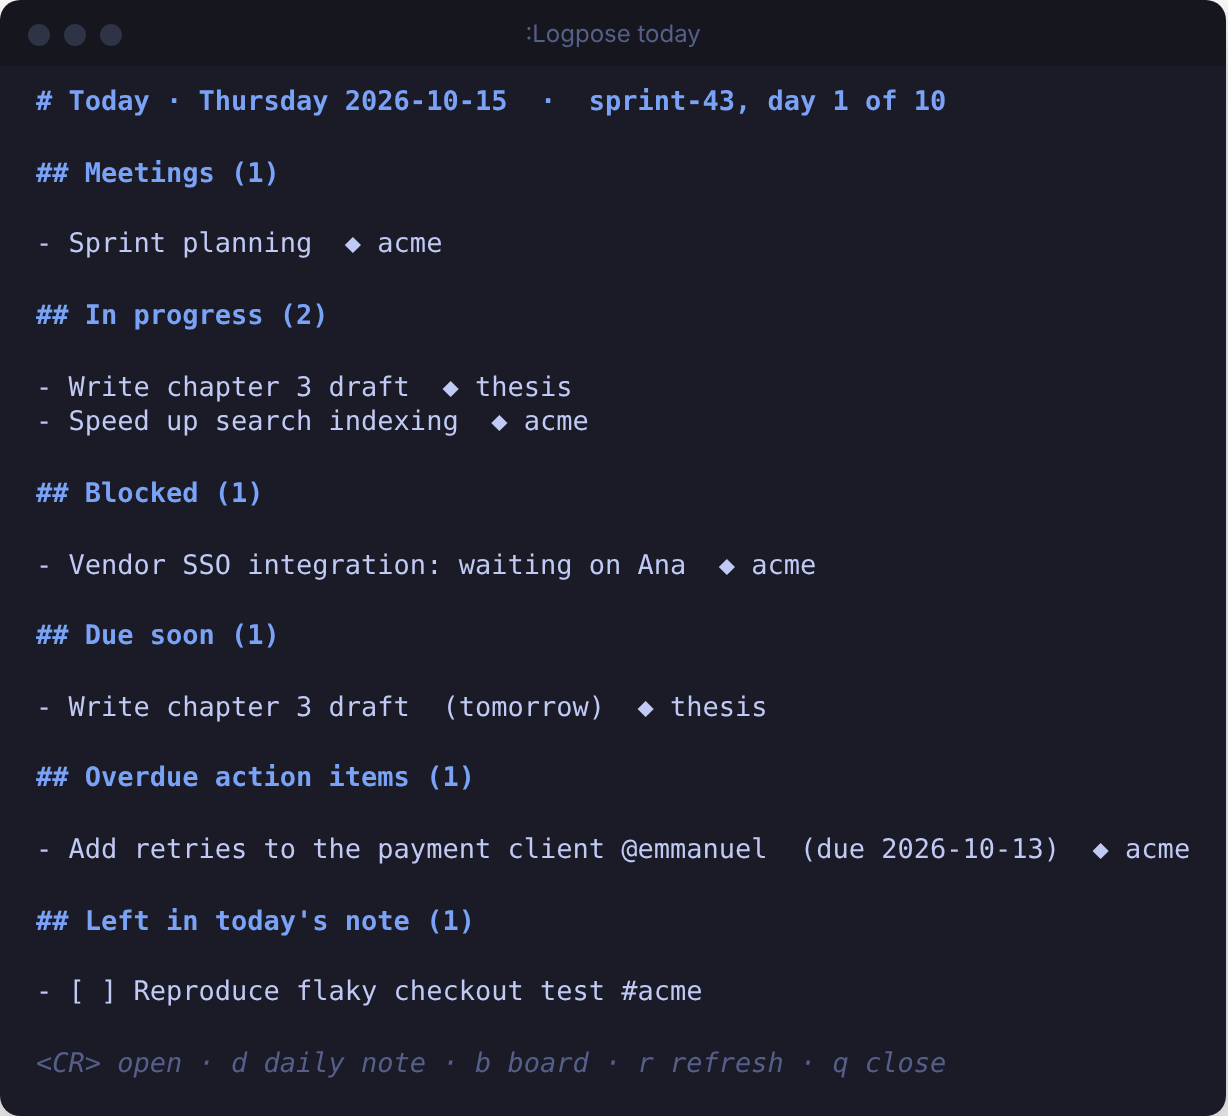
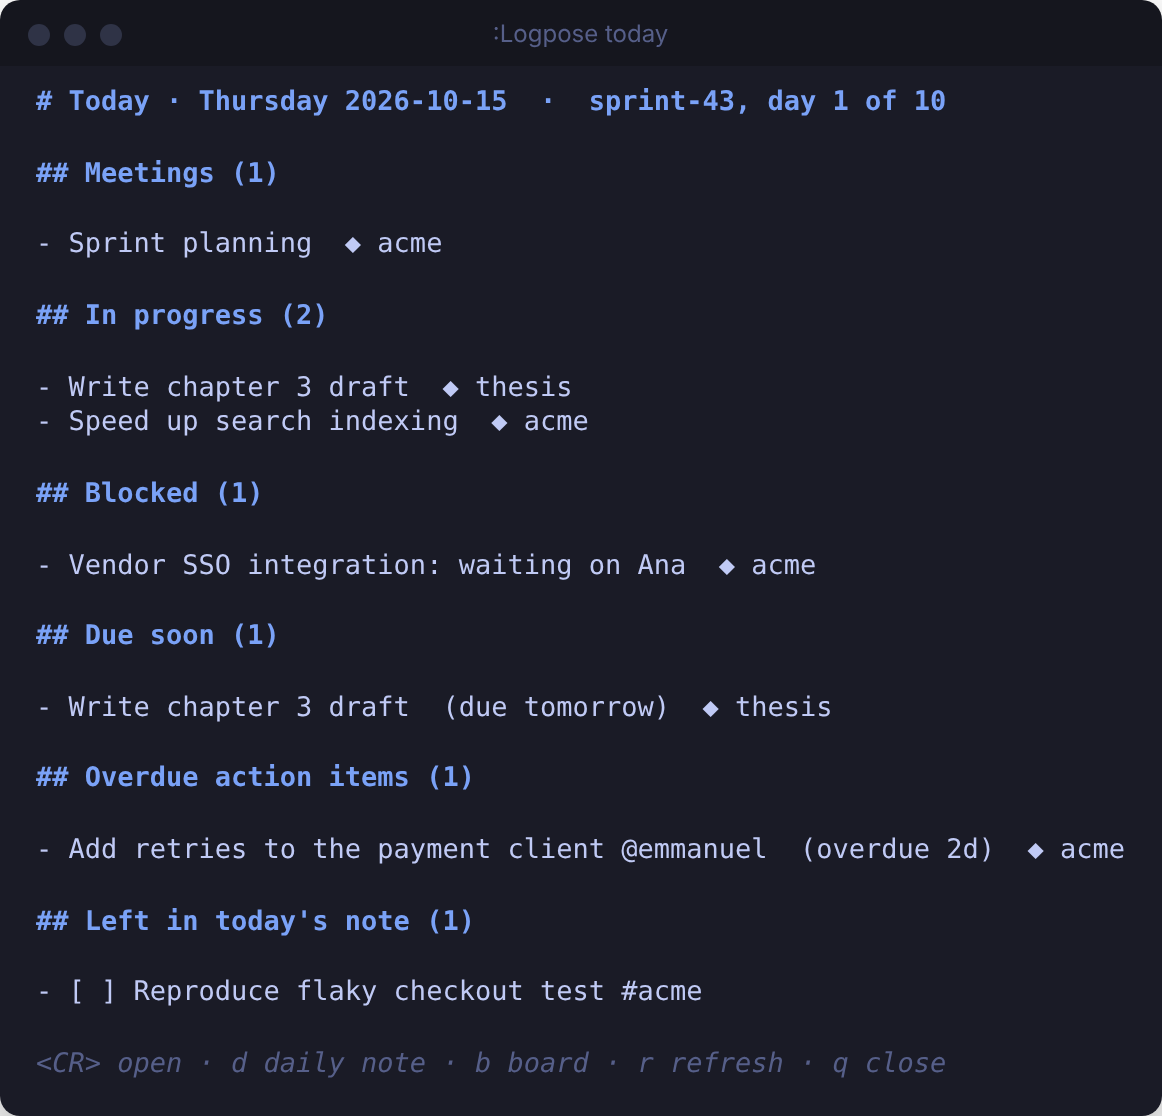
docs: shared date wording; retired commands removed

diff --git a/docs/SPEC.md b/docs/SPEC.md
@@ -64,7 +64,7 @@ capture/done, sprint-aware archives and reports.
 
 **Releases.** Annotated tags in `MAJOR.MINOR.PATCH` form (no `v` prefix). Each completed feature
 bumps the minor version (0.1.0 = F0+F1, 0.2.0 = F1.5, 0.3.0 = F1.6, 0.4.0 = F2, 0.5.0 = F2.1, 0.6.0 = F3, 0.7.0 = F4, 0.8.0 = F5, 0.9.0 = F6, 0.10.0 = O1, 0.11.0 = O2, 0.12.0 = O3, 0.13.0 = O4, 0.14.0 = O5, 0.15.0 = O6, 0.16.0 = F7,
-0.17.0 = F8, 0.18.0 = T1, 0.19.0 = live search and previews, 0.20.0 = B1, 0.21.0 = markdownlint-clean notes, 0.22.0 = timestamps, board look and delete, 0.23.0 = peek, scrolling columns, WIP limits and age, 0.23.1 = board resize fixes, 0.24.0 = command menu, statusline, board undo, 0.25.0 = today, keymaps preset, titled notifications, board extras, 0.25.1 = docs rewrite, 0.26.0 = project manager, project completion and board-follows-project fixes, 0.27.0 = project switcher, project pages as registry, moving tasks between projects, merging projects, 0.28.0 = switching opens the board, 0.28.1 = board and projects split into modules, tests 40× faster, 0.28.2 = caching for big journals, 0.29.0 = frontmatter editor, 0.30.0 = capture picks the project, form rework, bulk edits, 0.30.1 = completion menu closes after a choice, 0.30.2 = <CR> accepts from the menu, nvim-cmp off in the form, 0.31.0 = the edit form stays open after saving, 0.32.0 = card redesign, 0.32.1 = automatic project colours, no cursorline on the board, 0.33.0 = borders tinted with the project's colour, 0.34.0 = column-coloured borders by default again, tags as chips); fixes bump the patch;
+0.17.0 = F8, 0.18.0 = T1, 0.19.0 = live search and previews, 0.20.0 = B1, 0.21.0 = markdownlint-clean notes, 0.22.0 = timestamps, board look and delete, 0.23.0 = peek, scrolling columns, WIP limits and age, 0.23.1 = board resize fixes, 0.24.0 = command menu, statusline, board undo, 0.25.0 = today, keymaps preset, titled notifications, board extras, 0.25.1 = docs rewrite, 0.26.0 = project manager, project completion and board-follows-project fixes, 0.27.0 = project switcher, project pages as registry, moving tasks between projects, merging projects, 0.28.0 = switching opens the board, 0.28.1 = board and projects split into modules, tests 40× faster, 0.28.2 = caching for big journals, 0.29.0 = frontmatter editor, 0.30.0 = capture picks the project, form rework, bulk edits, 0.30.1 = completion menu closes after a choice, 0.30.2 = <CR> accepts from the menu, nvim-cmp off in the form, 0.31.0 = the edit form stays open after saving, 0.32.0 = card redesign, 0.32.1 = automatic project colours, no cursorline on the board, 0.33.0 = borders tinted with the project's colour, 0.34.0 = column-coloured borders by default again, tags as chips, 0.35.0 = shared date wording and frontmatter writer; triage, move and the switcher removed); fixes bump the patch;
 1.0.0 once M3 is done.
 
 ---
@@ -376,11 +376,11 @@ across everything, but meetings, tasks and reports can be kept apart and filtere
   lists the active project, then recently switched-to ones (`recent_projects` in state), then
   the rest by activity; each item previews the project's details (below). "+ New project…"
   creates a page and switches; "Auto-detect" unpins.
-- Switching to a project (switcher, manager `<CR>`, `:Logpose project <name>`) opens its board
+- Switching to a project (manager `<CR>`, `:Logpose project <name>`) shows its board
   unless `projects.open_board = false` or the current buffer is already a board, which follows
   the switch itself (0.28.0). Unpinning doesn't open it.
-- **Project manager** (`:Logpose projects`, `projects/`: `summary`, `manager`, `switcher`;
-  0.26.0, reworked in 0.27.0): one
+- **Project manager** (`:Logpose projects`, `projects/`: `summary`, `manager`; the switcher was
+  removed in 0.35.0; 0.26.0, reworked in 0.27.0): one
   row per project with open tasks (and how many are in the start column), overdue, due soon
   (3 days), blocked, meetings, notes, and the newest change as "3d ago"; most recently active
   first; no change for `review.stale_days` fades the row. `<Tab>` expands a project in place:
@@ -406,6 +406,14 @@ across everything, but meetings, tasks and reports can be kept apart and filtere
   `status`/`project`/`blocked` through `taskfile.set_*` (logged), and moves a meeting to its new
   project's folder (`series`, links via `maintenance.rewrite_links`, the daily `- project:` label,
   the emptied folder). A project page's `project` is refused (rename with `R`).
+- **Consolidation** (0.35.0): one way to word dates (`util/date`: `due` for due dates
+  everywhere they're shown, `relative`, `short`, one `MONTHS` table), one frontmatter writer
+  (`frontmatter.lua`: `quote`, `render`, `line`, `read`, `set` with `false` to remove and an
+  optional key order; used by task files, project pages, meeting and topic notes and the edit
+  form). Retired: `:Logpose triage` (the board, and in INBOX mode the inbox triage queue),
+  `:Logpose move` (the edit form and `m`), the project switcher (`:Logpose project` without a
+  name and `P` open the manager; switching shows the existing board via `board.show`, keeping
+  its filter, marks and folds) and the `<leader>jw` key.
 - **Card design** (0.32.0, `board/cards.lua`): colour only where it means something. Borders use
   `LogposeBoardBorder` (`board.border = "column"` restores column colours); the focused card has
   a heavy border in Normal's foreground plus `LogposeBoardFocusBg` (CursorLine) under its rows,
@@ -439,8 +447,8 @@ across everything, but meetings, tasks and reports can be kept apart and filtere
   edit last` reopen the last capture. With rows per project, `a` uses the row under the cursor
   (`view.lane_at_cursor`, from `b.lane_rows`). `tasks.complete_text` completes `+`, `#`, `due:`
   for the command line and (`complete_input`, customlist) for `vim.ui.input` prompts.
-- **Moving tasks** (0.27.0): `m` on the board (undoable) and `:Logpose move [project|none]` in
-  a task file set `project:` and log `project: old → new`.
+- **Moving tasks** (0.27.0): `m` on the board (undoable) and the edit form's `project` set
+  `project:` and log `project: old → new` (`:Logpose move` was removed in 0.35.0).
 - **Merging** (`M`, `:Logpose merge-project old new`, 0.27.0): the rename plan with `merge`:
   meeting files move into the existing folder one by one (a name clash aborts), the emptied
   folder is removed, links and series follow; if both projects have pages the old page stays

diff --git a/README.md b/README.md
@@ -297,17 +297,15 @@ item to open it. `d` opens the daily note, `b` the board, `r` refreshes and `q` 
 
 ### Switching
 
-`:Logpose project` (or `P` on the board) opens a switcher in your picker. The active project
-comes first, then the ones you switched to recently, and each one previews what's going on in
-it: work in progress, blocked tasks with their reasons, what's due and the last meeting.
-Switching opens that project's board (if you're already on the board, it switches in place),
-and takes effect everywhere else at once. `projects = { open_board = false }` switches without
-leaving where you are.
+`:Logpose project` (or `P` on the board) opens the projects screen below; `<CR>` on a project
+switches to it. Switching brings back your board on that project (as you left it: filter, marks,
+folded columns) and takes effect everywhere else at once. `projects = { open_board = false }`
+switches without leaving where you are.
 
 ```vim
-:Logpose project          " the switcher
+:Logpose project          " the projects screen
 :Logpose project acme     " switch directly
-:Logpose project none     " go back to automatic detection
+:Logpose project none     " go back to automatic detection (c on the projects screen)
 ```
 
 When you haven't pinned a project, logpose works it out from where you are:
@@ -348,7 +346,7 @@ come first, and ones untouched for two weeks fade. `<Tab>` opens a project in pl
 | `c` | Go back to automatic detection. |
 
 **The project page** (`projects/acme.md`) is where a project lives. Its frontmatter is what the
-switcher and the manager show, and you can edit it by hand:
+projects screen shows, and you can edit it by hand (or with `e` there):
 
 ```markdown
 ---
@@ -366,8 +364,8 @@ color: "#e0af68"
 - `color` (a hex colour or a highlight group) colours the project's cards on the board.
 - The rest of the page is yours: overview, links, decisions, open questions.
 
-**Moving a task to another project:** `m` on the board, or `:Logpose move [project]` in a task
-file. The move is logged in the task, and `u` on the board undoes it.
+**Moving a task to another project:** `m` on the board, or change `project` in the edit form
+(`:Logpose edit` in the task file). The move is logged in the task, and `u` on the board undoes it.
 
 **Merging** (`M`, or `:Logpose merge-project old new`) moves everything from one project into
 another: tasks, notes, meetings (files and series) and links. The old project page stays,
@@ -375,7 +373,7 @@ archived and marked `merged_into`, so links to it keep working. Like a rename, i
 change before applying it.
 
 **Archiving** hides a project you're done with, without losing anything. Its tasks and notes
-stay where they are and remain searchable, but it leaves completion, the switcher and the
+stay where they are and remain searchable, but it leaves completion, the projects screen and the
 all-projects board. logpose records this as `archived: true` in the project page, and `U`
 undoes it.
 
@@ -602,8 +600,6 @@ mapping. A `!` can go on either word: `:Logpose archive!` is the same as `:Logpo
 | `capture[!] [TEXT]` | New task in Backlog. `+name` picks the project. `!` opens it. |
 | `done` | In a task file: move it to Done. On checkboxes: check them off. |
 | `promote` | Turn the checkbox under the cursor into a task file. |
-| `move [PROJECT\|none]` | In a task file: move the task to another project. |
-| `triage [FILTERS]` | Open the board on Backlog. |
 | `migrate[!]` | Turn open INBOX.md items into task files. `!` skips the preview. |
 | `actions [open\|mine\|overdue\|all] [FILTERS]` | Meeting action items in the quickfix list. |
 
@@ -622,7 +618,7 @@ mapping. A `!` can go on either word: `:Logpose archive!` is the same as `:Logpo
 | Command | Does |
 |---|---|
 | `note [TITLE]` | Create or open a topic note. |
-| `project [NAME\|none]` | Switch project (a picker without a name), or go back to detection. |
+| `project [NAME\|none]` | Switch project (the projects screen without a name), or go back to detection. |
 | `projects` | Manage projects: what needs attention, add, rename, merge, archive. |
 | `project-page [NAME]` | Create or open a project page. |
 | `edit [last]` | Edit this note's frontmatter (or the last captured task's, or the tasks on selected quickfix lines) in a form. |
@@ -652,7 +648,7 @@ mapping. A `!` can go on either word: `:Logpose archive!` is the same as `:Logpo
 | `u` | undo | `<C-r>` | redo |
 | `c` | compact one-line cards | `s` | one row per project |
 | `<CR>` | open the task file | `/` | filter (same filters as `find`) |
-| `p` | this project / all projects | `P` | switch project |
+| `p` | this project / all projects | `P` | projects screen (switch there) |
 | `m` | move the card to another project | `e` | edit the card's fields |
 | `v` | mark / unmark the card | `V` `<Esc>` | unmark all |
 | `r` | refresh | `q` | close |
@@ -690,7 +686,7 @@ and it never replaces a key you've mapped yourself.
 | `<leader>jj` | command menu | `<leader>jd` | daily note |
 | `<leader>jy` | today | `<leader>js` | standup |
 | `<leader>jk` | board | `<leader>jm` | meeting note |
-| `<leader>jw` | switch project | `<leader>jP` | manage projects |
+| `<leader>jP` | projects (switch, manage) | | |
 | `<leader>je` | edit frontmatter | | |
 | `<leader>jc` | capture a task | `<leader>jx` | mark done (normal and visual) |
 | `<leader>jp` | promote to task file | `<leader>jn` | topic note |
